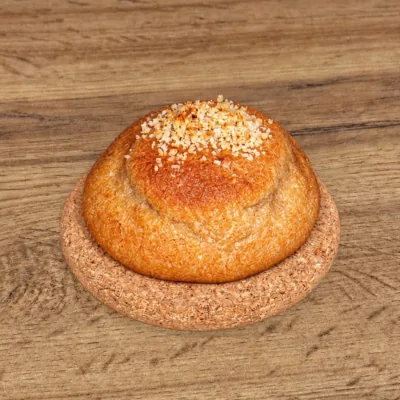
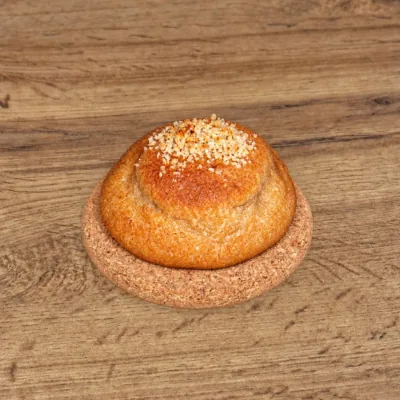
fix(les-100): nouvelles photos principales Le 67 / Le 09 + bump cache v8
Regenere goukie_images/67.webp et 09.webp depuis les nouvelles sources
cliente (67(2).png / 09(2).png, 400x400 -> webp). Les vues coupees
67-2.webp / 09-2.webp sont inchangees. Bump CACHE_NAME v7 -> v8 : memes
noms de fichiers + images cache-first, sans bump les visiteurs gardent
les anciennes photos (meme piege que le Le 88).

diff --git a/sw.js b/sw.js
@@ -1,5 +1,5 @@
 // Version du cache (à incrémenter à chaque déploiement majeur)
-const CACHE_NAME = 'les100-cache-v7';
+const CACHE_NAME = 'les100-cache-v8';
 
 // Ressources à mettre en cache immédiatement (fallback hors-ligne)
 const CACHE_URLS = [
